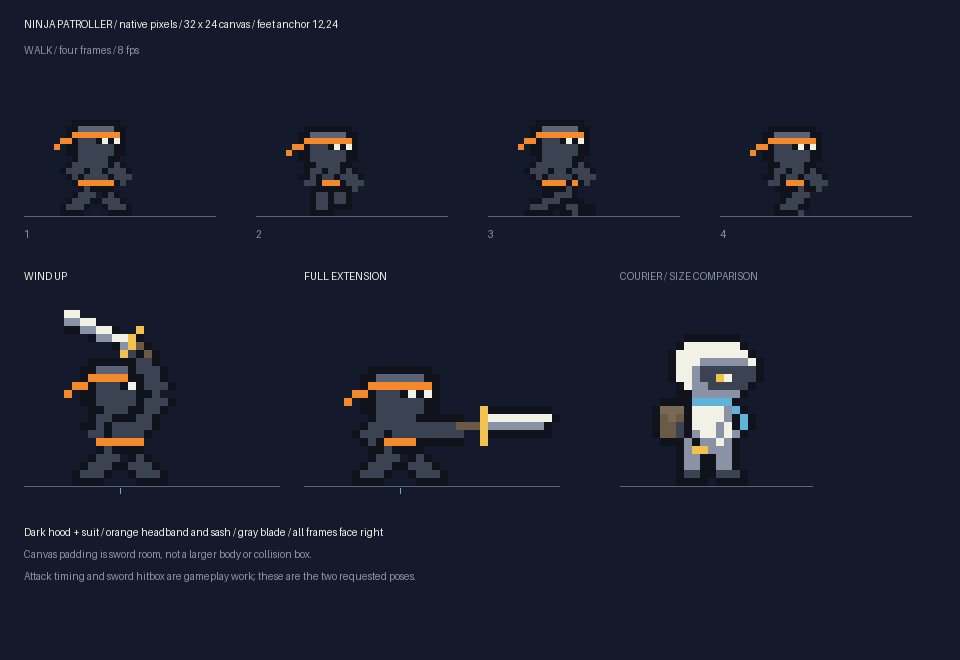
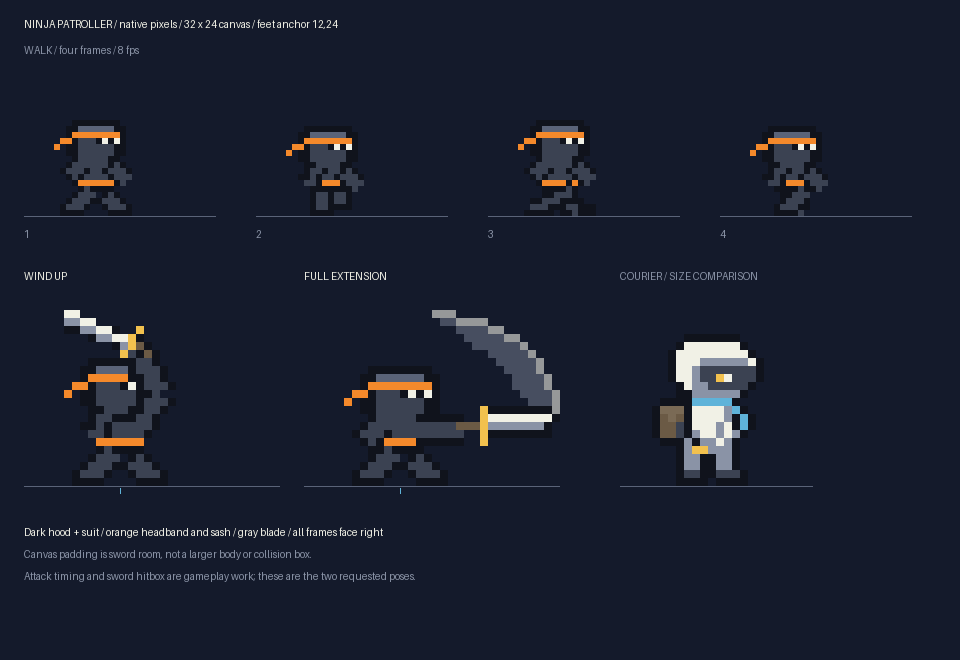
Add motion lines to the sword slash

Changed region(s): [[0.4375, 0.4545, 0.5938, 0.6364]]

diff --git a/art/patroller/ninja.py b/art/patroller/ninja.py
@@ -54,6 +54,14 @@ def frame(pose):
         d.line((12, 7, 14, 4), fill=P['money'])
         limb(d, [(9, 15), (8, 17)])
     elif pose == 'extended':
+        # Broad tapered crescent traces the overhead-to-forward sword sweep.
+        # Draw behind the blade, with an open centre to preserve the silhouette.
+        trail = tuple(bytes.fromhex(P['ghost'][1:])) + (110,)
+        edge = tuple(bytes.fromhex(P['player'][1:])) + (150,)
+        d.polygon([(16, 2), (22, 3), (27, 6), (30, 10), (31, 14),
+                   (28, 14), (27, 12), (24, 8), (20, 5)], fill=trail)
+        d.line([(16, 2), (22, 3), (27, 6), (30, 10), (31, 14),
+                ], fill=edge, width=1)
         limb(d, [(14, 16), (19, 16)])
         d.line((19, 16, 22, 16), fill=P['postFloor'])
         d.line((22, 14, 22, 18), fill=P['money'])

diff --git a/ART.md b/ART.md
@@ -212,12 +212,15 @@ All three assets are visually approved.
 A simple dark ninja uses an orange headband and sash, a level hood top, and a
 gray sword visible only during the swing. The four-frame walk has empty hands
 and loops at 8 fps. The two-frame `swing` shows an
-overhead wind-up followed by full rightward extension; it does not loop. Its
+overhead wind-up followed by full rightward extension with a broad gray-and-ivory
+semitransparent slash arc showing the sword sweep above the blade and ending at
+the sword; it does not loop. Its
 8 fps is preview metadata, not a decision about combat timing.
 
 Both animations use a 32×24 canvas with anchor (12,24). The body remains roughly
 16×16; transparent padding accommodates the raised and extended sword. Frames
-face right and use only manifest palette colors with hard alpha. The canvas
+face right and use only manifest palette colors. The body and blade use hard
+alpha; the slash effect uses semitransparent fill (110/255) and edge (150/255). The canvas
 does not define the body collision box or the sword attack hitbox.
 
 Sources and static/animated reviews are in [art/patroller/](art/patroller/README.md).

diff --git a/art/patroller/README.md b/art/patroller/README.md
@@ -14,10 +14,13 @@ Both strips use 32×24 frames and the same (12,24) foot anchor:
 
 - `client/assets/sprites/patroller/walk.png`: four frames, 8 fps, looping.
 - `client/assets/sprites/patroller/swing.png`: two frames, 8 fps, not looping;
-  wind-up then full extension. Combat timing is not implemented by this art.
+  wind-up then full extension with a broad, tapered, semitransparent slash arc
+  above the blade, ending at the sword. Combat timing and damage area are not
+  implemented by this art.
 
 The ninja body remains roughly 16×16. Canvas padding provides room for the sword,
-not a larger collision box. All frames face right and use hard alpha.
+not a larger collision box. All frames face right. The ninja and sword use hard
+alpha; the slash effect uses alpha 110/255 for its fill and 150/255 for its edge.
 
 `ninja-review.png` shows every pose and the courier at equal scale.
 `walk-preview.gif` and `swing-preview.gif` loop for review; the swing preview holds
